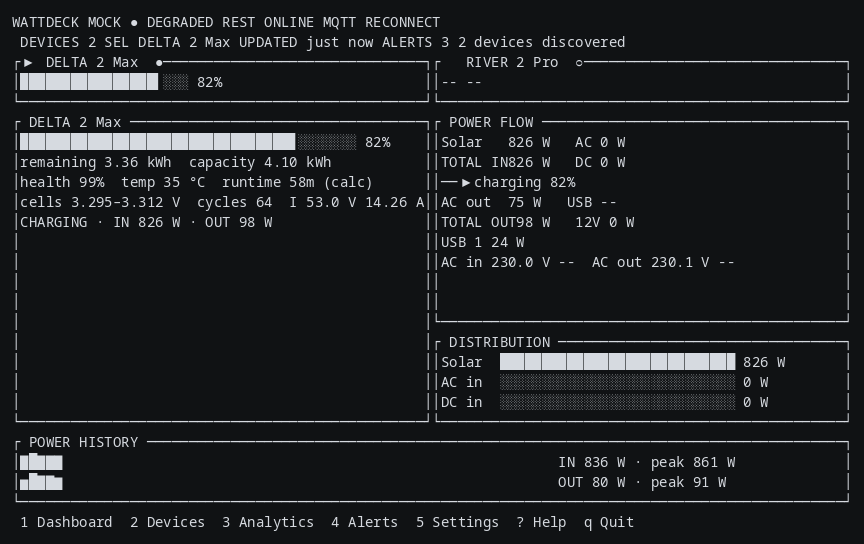
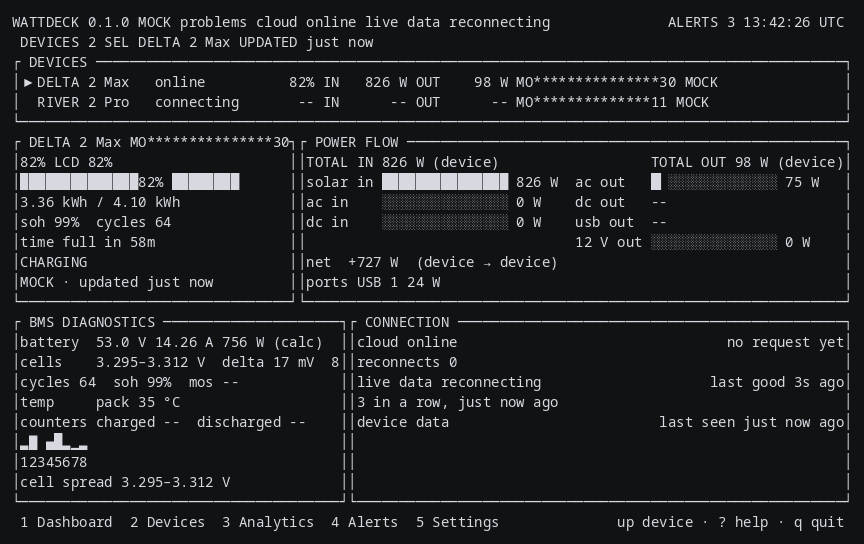
Panels read one snapshot: the connection panel shows last good, fails, reconnects; RIVER mini reads 'not supported'; empty sections are not drawn, and the header states each transport once

diff --git a/README.md b/README.md
@@ -12,7 +12,7 @@ One Rust binary: no web app, no Electron, no daemon, no cloud.
 **wattdeck** is the app; EcoFlow is the vendor of the devices it monitors. The
 header carries the app name only.
 
-![wattdeck's dashboard, mock mode: the MOCK badge and the connection line in the header, the DELTA 2 Max panel with charge percentage, remaining and capacity in kWh, health, temperature, runtime, cell voltage range and cycle count, the power-flow panel with solar, AC, DC and USB ports, the distribution bars, and the power-history chart](docs/screenshots/dashboard.png)
+![wattdeck's dashboard, mock mode: the header with the MOCK badge and both transport states, the device strip, the DELTA 2 Max overview with charge percentage, gauge, remaining and capacity, health, cycles, temperature and the runtime row reading `time full in 57m`, the power-flow panel with solar, AC, DC, USB and 12V channels, the power-history chart, and the BMS diagnostics beside the connection panel](docs/screenshots/dashboard.png)
 
 ## Contents
 
@@ -99,16 +99,30 @@ the credential template **only** when no secret service is present.
 
 ## What you see
 
-**Dashboard.** One screen per device: charge percentage, remaining and capacity
-in kWh, health, temperature, computed runtime, cell voltage range, cycle count,
-power in and out, the power-flow panel (solar, AC, DC, USB 1, USB-C, 12V), the
-distribution bars, and the power-history chart. The header line carries the
-connection states of both transports — `REST ONLINE` and `MQTT ONLINE` are
-independent, and a degraded transport is shown as degraded, not as online.
-Mock screens carry a `MOCK` badge, so a simulated number is never mistaken for
-a real reading.
+**Dashboard.** Five regions: a two-line header (name, version, `MOCK` badge, each
+transport's state in plain words and colour, device count, the selected device,
+freshness, active alerts and the clock), a device strip, the device overview beside
+the power-flow panel, the power-history chart, and BMS diagnostics beside the
+connection panel. The overview carries charge percentage, the gauge, remaining and
+capacity in kWh, health, cycles, temperature and the runtime. The runtime row says
+what the number means: `full in 58m` while charging, `runs 1h 12m` while
+discharging, `idle` at rest, `full` at the charge limit, and `state unknown` when
+nothing has been reported. Every number is marked with where it came from —
+`(device)` for a value the device reported, `(calc)` for what the app computed,
+`--` for a channel the device supports but did not send, `n/a` for a channel this
+model does not have. The layout is responsive: panels keep content minimums, spare
+rows go to the history chart, and a terminal narrower than 72 columns stacks the
+panels.
 
-![The alerts screen, mock mode: the credential-state line telling you to run wattdeck setup, and the MQTT reconnect alert under the header's DEGRADED connection line](docs/screenshots/alerts.png)
+**Devices.** One row per device: its state as the app can defend it (`online`,
+`connecting`, `stale`, `offline`, `not supported`, `sign-in failed`), charge
+percentage, input and output power, the masked serial, and the transport the data
+came on. `enter` opens the device screen, which carries the state, when the live
+feed and the cloud last answered, how many properties the device has sent, its
+productType, the capabilities verified for that model, the cloud's refusal text if
+it refused, the controls the model supports, and the raw property inspector.
+
+![The alerts screen, mock mode: the credential-state line telling you to run wattdeck setup, and the MQTT reconnect alert under the header's connection line](docs/screenshots/alerts.png)
 
 **Alerts.** Low and critical battery, high temperature, high output above the
 configured limit, disconnects, API refusals, storage problems, command replies,
@@ -138,9 +152,13 @@ inspector, so a value the app does not know how to display is never hidden.
 The normalizer scales BMS arrays to volts and amps and maps the device's
 property keys into one state; unknown keys pass through. A RIVER mini on the
 same account is offline, and its property map returns `code 1006` — the app
-shows it as offline and never displays invented values for it. History lives in
-a local SQLite database: one sample per device every 10 s (configurable),
-90-day retention. Mock runs never write history.
+shows it as offline and never displays invented values for it. History lives in a
+local SQLite database: one sample per device every 5 s (configurable). A report with
+the same numbers as the last one is not stored twice, and the last identical sample
+is stored again every 10 minutes, so history shows that a station at rest is still
+answering. The ranges are 15 m, 1 h, 6 h and 24 h; the chart draws as soon as there
+is one sample and never fills a gap with an estimate. A restart loads the rows back
+from the database. 90-day retention. Mock runs never write history.
 
 ## Keys and safety
 

diff --git a/docs/API_INTEGRATION.md b/docs/API_INTEGRATION.md
@@ -132,6 +132,33 @@ An envelope `online: 0` with telemetry streaming in does not make the app show
 the device offline: the app sets `snap.online = true` when the device is pushing
 data. Empty arrays (`cellVol: []`) are not measurements.
 
+## Runtime counters
+
+Several counters report runtime, in minutes, and they answer different
+questions depending on what the station is doing. Live on a charging DELTA 2
+Max `[LIVE]`: `bms_emsStatus.chgRemainTime` = 7,
+`bms_emsStatus.dsgRemainTime` = 5999, `bms_bmsStatus.remainTime` signed
+(positive is charge time, negative is discharge time), and `pd.remainTime`
+behind the LCD.
+
+- The charging counter is the one that answers "how long to full". The
+  discharge counter does not answer that question, and the app never uses it as
+  a time-to-full `[LIVE]`.
+- 5999 minutes is 99 h 59 m, the largest value this project has seen on a
+  station that was charging `[LIVE]`. A station that is charging cannot have
+  99 hours of discharge left, so the app treats 5999 as the counter's ceiling:
+  the raw number stays on the diagnostics screen, it is never shown as a
+  runtime, and the charging estimate comes from `chgRemainTime` or from the
+  measured charge power over the last 15 minutes.
+- **not verified**: whether 5999 is a fixed maximum the device sends when it
+  has no estimate, a saturated counter, or a genuine 99 h 59 m estimate at a
+  light load. Telling those apart needs a station at a known load for hours,
+  which this project has not run. The code marks the value as the ceiling,
+  which is the claim the evidence supports, and preserves the raw number.
+- Idle and full: both counters belong to the other state, so the app shows
+  `idle` or `full` and no number. The state comes from the ammeter and SOC,
+  not from the counters `[LIVE]`.
+
 ## Set commands
 
 Envelope the live device answers `[LIVE]`:

diff --git a/docs/CONFIGURATION.md b/docs/CONFIGURATION.md
@@ -82,7 +82,7 @@ file has credential values masked.
 | --- | --- | --- |
 | `enabled` | `true` | SQLite history. Mock runs never write history, whatever this says |
 | `retention_days` | `90` | **≥ 1.** Purged on the writer's cadence |
-| `sample_interval_seconds` | `10` | **≥ 1.** One sample per device |
+| `sample_interval_seconds` | `5` | **≥ 1.** One sample per device. A report with the same numbers as the last is not stored twice; the last identical sample is stored again every 10 minutes |
 | `memory_samples` | `120` | **≥ 8.** In-memory sparkline window per device |
 
 ## `[analytics]`
